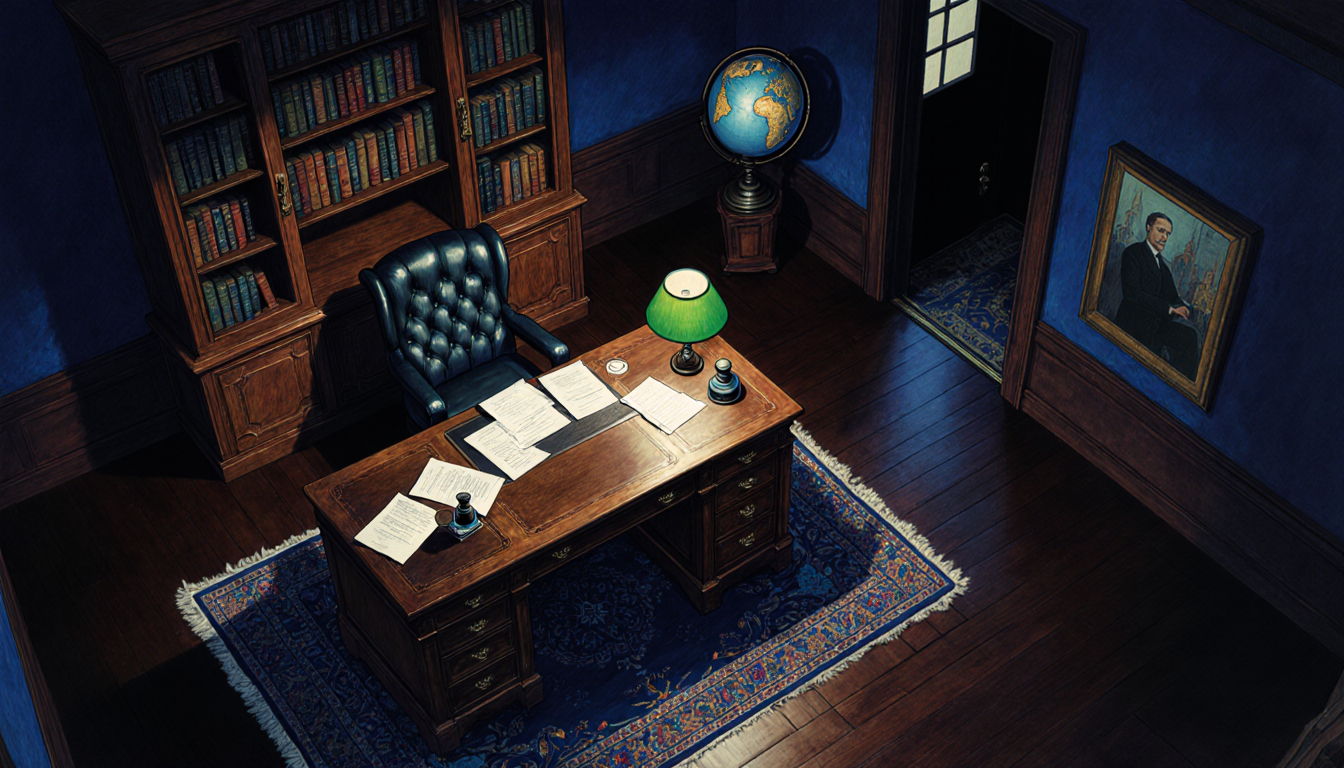
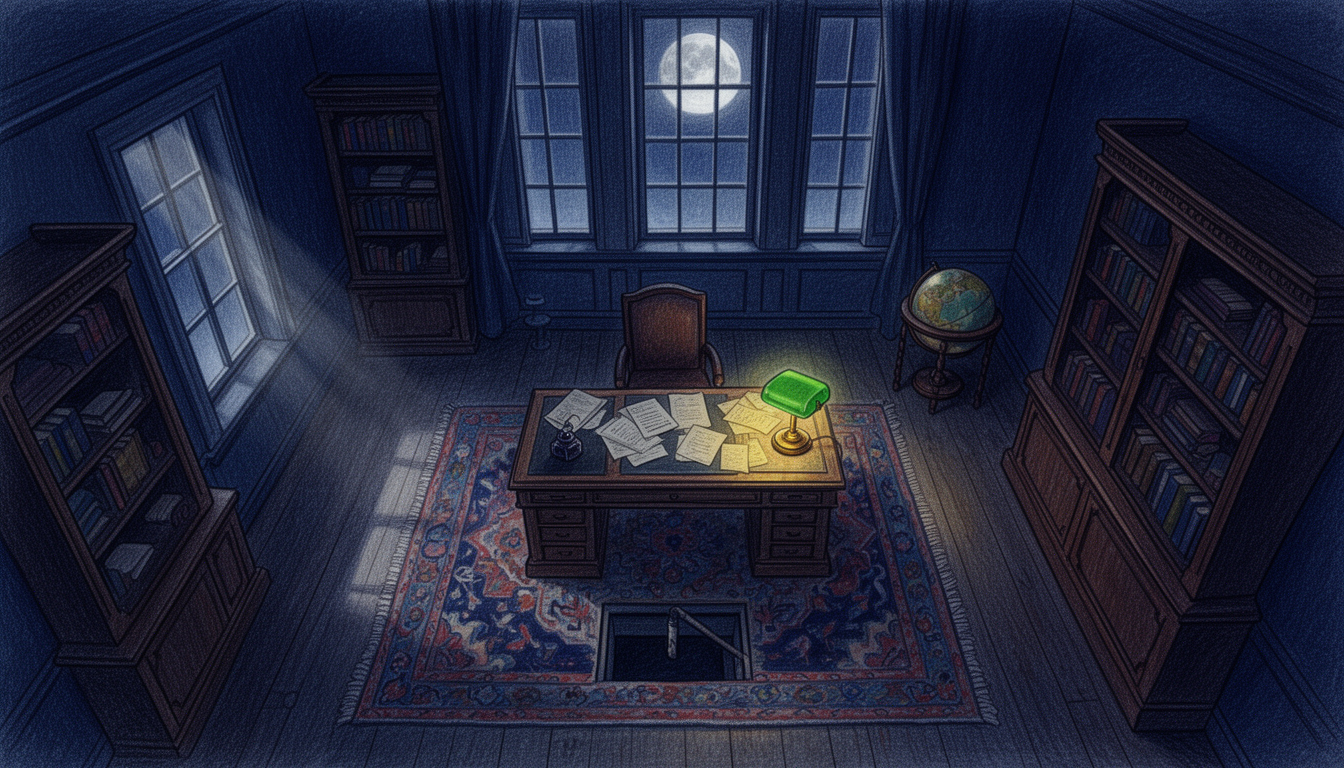
Update room and weapon images for Clue game

diff --git a/backend/app/games/clue/room-prompts.md b/backend/app/games/clue/room-prompts.md
@@ -68,7 +68,7 @@ Character portrait illustrations. Each depicts the suspect in a dramatic three-q
 
 **Ratio:** 16:9
 
-> Colored pencil art. Dark victorian noir of a Cluedo mansion — the Study. Top view from the bottom, moonlight streaming through tall windows on the top wall and left wall. Deep midnight blue and mahogany tones. A heavy oak desk strewn with papers and an inkwell, floor-to-ceiling bookshelves, a globe in the corner, a green banker's lamp casting a small circle of light. Persian rug over dark hardwood. Secret passage trapdoor barely visible beneath the rug.
+> Colored pencil art. Dark victorian noir of a Cluedo mansion — the Study. Top view from the bottom, nighttime, moonlight streaming through tall windows on the top wall and left wall. Deep midnight blue and mahogany tones. A heavy oak desk strewn with papers and an inkwell, floor-to-ceiling bookshelves, a globe in the corner, a green banker's lamp casting a small circle of light. Persian rug over dark hardwood. Secret passage trapdoor barely visible beneath the rug.
 
 ---
 
@@ -76,7 +76,7 @@ Character portrait illustrations. Each depicts the suspect in a dramatic three-q
 
 **Ratio:** 4:5
 
-> Colored pencil art. Grand victorian Cluedo mansion — the Hall. Top view from the bottom, warm gaslight glow throughout. Warm amber and ivory tones. Black-and-white checkerboard marble floor, ornate chandelier shadow cast from above, grand double entry doors at the far wall, a tall grandfather clock, coat rack with a top hat and cane. Sconces light the wallpapered walls. No windows.
+> Colored pencil art. Grand victorian Cluedo mansion — the Hall. Top view from the bottom, nighttime, warm gaslight glow throughout. Warm amber and ivory tones. Black-and-white checkerboard marble floor, ornate chandelier shadow cast from above, grand double entry doors at the far wall, a tall grandfather clock, coat rack with a top hat and cane. Sconces light the wallpapered walls. No windows.
 
 ---
 
@@ -84,7 +84,7 @@ Character portrait illustrations. Each depicts the suspect in a dramatic three-q
 
 **Ratio:** 5:4
 
-> Colored pencil art. Moody victorian Cluedo mansion — the Lounge. Top view from the bottom, pale light filtering through heavy drapes on the top wall and right wall. Rich crimson and gold tones. Tufted velvet chaise longue, a crackling fireplace with marble mantel, crystal decanter and glasses on a side table, thick burgundy drapes, an animal-skin rug, scattered playing cards. Cigarette smoke curling upward.
+> Colored pencil art. Moody victorian Cluedo mansion — the Lounge. Top view from the bottom, nighttime, pale moonlight filtering through heavy drapes on the top wall and right wall. Rich crimson and gold tones. Tufted velvet chaise longue, a crackling fireplace with marble mantel, crystal decanter and glasses on a side table, thick burgundy drapes, an animal-skin rug.
 
 ---
 
@@ -92,7 +92,7 @@ Character portrait illustrations. Each depicts the suspect in a dramatic three-q
 
 **Ratio:** 3:2
 
-> Colored pencil art. Atmospheric victorian Cluedo mansion — the Library. Top view from the bottom, cold moonlight casting long shadows through bay windows on the left wall. Forest green and aged leather tones. Towering shelves packed with leather-bound volumes, a rolling ladder against one wall, a reading chair with an open book face-down on the armrest, a brass telescope near the window, scattered notes and a magnifying glass on a side table.
+> Colored pencil art. Atmospheric victorian Cluedo mansion — the Library. Top view from the bottom, nighttime, cold moonlight casting long shadows through bay windows on the left wall. Forest green and aged leather tones. Towering shelves packed with leather-bound volumes, a rolling ladder against one wall, a reading chair with an open book face-down on the armrest, a brass telescope near the window, scattered notes and a magnifying glass on a side table.
 
 ---
 
@@ -100,7 +100,7 @@ Character portrait illustrations. Each depicts the suspect in a dramatic three-q
 
 **Ratio:** 5:4
 
-> Colored pencil art. Smoky victorian Cluedo mansion — the Billiard Room. Top view from the bottom, a sliver of moonlight through tall windows on the left wall. Emerald green and polished walnut tones. A full-size billiard table with balls mid-game, cue rack on the wall, low-hanging tiffany lamp over the table, leather wingback chairs, a whiskey cart, an empty velvet-lined gun case hanging open on the wall, mounted trophy heads faintly visible on wood-paneled walls.
+> Colored pencil art. Smoky victorian Cluedo mansion — the Billiard Room. Top view from the bottom, nighttime, a sliver of moonlight through tall windows on the left wall. Emerald green and polished walnut tones. A full-size billiard table with balls mid-game, cue rack on the wall, low-hanging tiffany lamp over the table, leather wingback chairs, a whiskey cart, mounted trophy heads faintly visible on wood-paneled walls.
 
 ---
 
@@ -108,7 +108,7 @@ Character portrait illustrations. Each depicts the suspect in a dramatic three-q
 
 **Ratio:** 1:1
 
-> Colored pencil art. Opulent victorian Cluedo mansion — the Dining Room. Top view from the bottom, soft light spilling across the table through tall windows on the right wall. Deep plum and silver tones. A long mahogany dining table set for six with fine china and candelabras, high-backed chairs, a sideboard with a silver tureen, wine bottles, and a carving knife. Heavy damask curtains. Spilled red wine on the white tablecloth.
+> Colored pencil art. Opulent victorian Cluedo mansion — the Dining Room. Top view from the bottom, nighttime, soft moonlight spilling across the table through tall windows on the right wall. Deep plum and silver tones. A long mahogany dining table set for six with fine china and candelabras, high-backed chairs, a sideboard with a silver tureen, wine bottles, and a carving knife. Heavy damask curtains. Spilled red wine on the white tablecloth.
 
 ---
 
@@ -116,7 +116,7 @@ Character portrait illustrations. Each depicts the suspect in a dramatic three-q
 
 **Ratio:** 5:4
 
-> Colored pencil art. Lush victorian Cluedo mansion — the Conservatory. Top view from the bottom, moonlight flooding through tall windows on the left wall and glass panes behind the camera. Warm sage green and terracotta tones. Potted palms and exotic ferns, a wrought-iron garden bench, stone tile floor with moss in the cracks, a watering can, scattered gardening tools, and a vine creeping along the window frame.
+> Colored pencil art. Lush victorian Cluedo mansion — the Conservatory. Top view from the bottom, nighttime, moonlight flooding through tall windows on the left wall and glass panes behind the camera. Warm sage green and terracotta tones. Potted palms and exotic ferns, a wrought-iron garden bench, stone tile floor with moss in the cracks, a watering can, scattered gardening tools, and a vine creeping along the window frame.
 
 ---
 
@@ -124,7 +124,7 @@ Character portrait illustrations. Each depicts the suspect in a dramatic three-q
 
 **Ratio:** 1:1
 
-> Colored pencil art. Elegant victorian Cluedo mansion — the Ballroom. Top view from the bottom, warm gaslight washing across the dance floor. Lavender and champagne gold tones. Vast polished parquet dance floor with geometric inlay pattern, a grand piano in the corner, enormous crystal chandelier reflection on the floor, floor-length mirrors on the walls, velvet rope barriers, a single dropped silk glove. No windows.
+> Colored pencil art. Elegant victorian Cluedo mansion — the Ballroom. Top view from the bottom, nighttime, warm gaslight washing across the dance floor. Lavender and champagne gold tones. Vast polished parquet dance floor with geometric inlay pattern, a grand piano in the corner, enormous crystal chandelier reflection on the floor, floor-length mirrors on the walls, velvet rope barriers, a single dropped silk glove. No windows.
 
 ---
 
@@ -132,15 +132,15 @@ Character portrait illustrations. Each depicts the suspect in a dramatic three-q
 
 **Ratio:** 1:1
 
-> Colored pencil art. Rustic victorian Cluedo mansion — the Kitchen. Top view from the bottom, soft light through windows on the right wall. Warm copper and cream tones. A heavy butcher-block island, cast-iron pots hanging from a ceiling rack, a coal-burning range with a kettle, flour dusted across the counter, a knife block, bundles of dried herbs, a pantry door slightly ajar, an open toolbox on the floor with a wrench-shaped gap in the tray. Warm gaslight glow on stone floor tiles.
+> Colored pencil art. Rustic victorian Cluedo mansion — the Kitchen. Top view from the bottom, nighttime, soft moonlight through windows on the right wall. Warm copper and cream tones. A heavy butcher-block island, cast-iron pots hanging from a ceiling rack, a coal-burning range with a kettle, flour dusted across the counter, a knife block, bundles of dried herbs, a pantry door slightly ajar, an open toolbox on the floor with a wrench-shaped gap in the tray. Warm gaslight glow on stone floor tiles.
 
 ---
 
 ### Grand Staircase
 
-**Ratio:** 5:4
+**Ratio:** 4:5
 
-> Colored pencil art. Dramatic victorian Cluedo mansion — the Grand Staircase. Top view from the bottom, warm gaslight from wall sconces illuminating the wide carpeted stairs. Rich mahogany and deep burgundy tones. A sweeping staircase with ornate carved banisters and a plush crimson runner, ascending into shadow. Oil portraits of stern ancestors lining the wall. A suit of armor standing guard at the landing. Polished brass handrail reflecting the gaslight. Dark wood paneling and a heavy newel post topped with a carved finial.
+> Colored pencil art. Dramatic victorian Cluedo mansion — the Grand Staircase. Top view from the bottom, nighttime, warm gaslight from wall sconces illuminating the wide carpeted stairs. Rich mahogany and deep burgundy tones. A straight sweeping staircase with a plush crimson runner, ascending into shadow. Oil portraits of stern ancestors lining the wall. A suit of armor standing guard at the landing. Polished brass handrail reflecting the gaslight. Dark wood paneling and a heavy newel post topped with a carved finial.
 
 ---
 
@@ -154,7 +154,7 @@ Weapon card illustrations. Each depicts the weapon as a central object on a dark
 
 **Ratio:** 2:3
 
-> Colored pencil art. Dark victorian noir Cluedo weapon — the Candlestick. A heavy brass candlestick with melted wax dripping down its stem, lying on its side on rumpled velvet. Warm golden and tarnished bronze tones. A single flame still guttering at the wick. Wax spatters on dark wood beneath. Dramatic side-lighting casting a long shadow.
+> Colored pencil art. Dark victorian noir Cluedo weapon — the Candlestick. A heavy brass candlestick with melted wax dripping down its stem, lying on its side on rumpled velvet. Warm golden and tarnished bronze tones.  Wax spatters on dark wood beneath. Dramatic side-lighting casting a long shadow.
 
 ---
 
@@ -224,7 +224,7 @@ Alternate character portraits with a romantic, flirtatious tone. Think golden-ho
 
 **Ratio:** 2:3
 
-> Colored pencil art. Romantic victorian Cluedo portrait — Mrs. White. A young woman with fiery red hair tumbling loose over bare shoulders, apron discarded on a kitchen chair behind her. Wearing a fitted cream blouse with the top buttons undone, leaning forward on a flour-dusted countertop with a coy grin. A smudge of flour on her cheek. Warm gaslight catching green eyes full of mischief. A fresh-baked pie cooling nearby, steam curling upward. Warm ivory and cinnamon tones. Flirtatious, disarming, full of surprises.
+> Colored pencil art. Romantic victorian Cluedo portrait — Mrs. White. A young woman with fiery red hair tumbling loose over bare shoulders, apron discarded on a kitchen chair behind her. Wearing a fitted cream blouse with the top buttons undone, leaning forward on a flour-dusted countertop with a coy grin. A smudge of flour on her cheek. Warm gaslight catching eyes full of mischief. A fresh-baked pie cooling nearby, steam curling upward. Warm ivory and cinnamon tones. Flirtatious, disarming, full of surprises.
 
 ---
 
